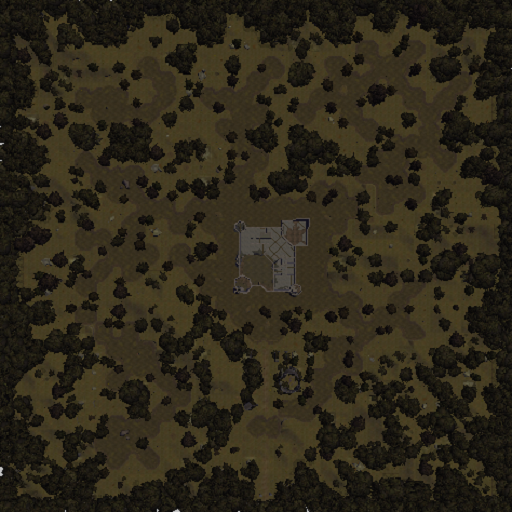
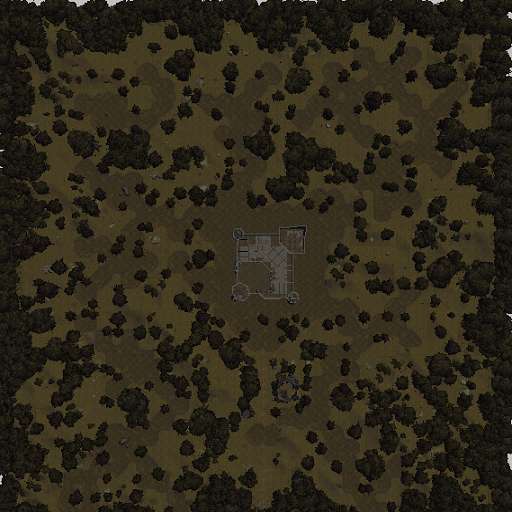
ver210127a

diff --git a/square/no-scroll.js b/square/no-scroll.js
@@ -1,16 +1,17 @@
 var map = {
-    cols: 10,
-    rows: 6,
+    cols: 14,
+    rows: 7,
     tsize: 512,
     csize: 100,
     tiles: [
-        //1         2                  3                  4                  5                  6                 7                  8                 9                  10
-        '0map',     '0map',            '0map',            '0map',            '0map',            '0map',           '0map',            '0map',           '0map',            '0map',
-        '0map',     'CastleTethyr',    '0map',            '0map',            '0map',            '0map',           '0map',            '0map',           '0map',            '0map',
-        '0map',     '0map',            '0map',            '0map',            '0map',            '0map',           '0map',            '0map',           '0map',            '0map',
-        'Saharkhan','Barshyr_IthalRd1','Barshyr_IthalRd2','Barshyr_IthalRd3','Barshyr_IthalRd4','Ithmon_WCatFrm1','Ithmon_WCatFrm2', 'Ithmon_LorCrsRd','Ithmon_IthRd1',   'Ithmon_IthRd2',
-        '0map',     '0map',            '0map',            '0map',            '0map',            '0map',           'Ithmon_LorFarmNW','Ithmon_LorFarmN','Ithmon_LorFarmNE','0map',
-        '0map',     '0map',            '0map',            '0map',            '0map',            '0map',           'Ithmon_LorFarmW', 'Loranse',        'Ithmon_LorFarmE', '0map'
+        //1         2                  3                  4                  5                  6                 7                  8                 9                  10              11     12     13         14
+        '0map',     '0map',            '0map',            '0map',            '0map',            '0map',           '0map',            '0map',           '0map',            '0map',         '0map','0map','0map',    '0map',
+        '0map',     'CastleTethyr',    '0map',            '0map',            '0map',            '0map',           '0map',            '0map',           '0map',            '0map',         '0map','0map','0map',    '0map',
+        '0map',     'CastleTethyrS',   '0map',            '0map',            '0map',            '0map',           '0map',            '0map',           '0map',            '0map',         '0map','0map','0map',    '0map',
+        'Saharkhan','Barshyr_IthalRd1','Barshyr_IthalRd2','Barshyr_IthalRd3','Barshyr_IthalRd4','Ithmon_WCatFrm1','Ithmon_WCatFrm2', 'Ithmon_LorCrsRd','Ithmon_IthRd1',   'Ithmon_IthRd2','0map','0map','0map',    '0map',
+        '0map',     '0map',            '0map',            '0map',            '0map',            '0map',           'Ithmon_LorFarmNW','Ithmon_LorFarmN','Ithmon_LorFarmNE','0map',         '0map','0map','0map',    '0map',
+        '0map',     '0map',            '0map',            '0map',            '0map',            '0map',           'Ithmon_LorFarmW', 'Loranse',        'Ithmon_LorFarmE', '0map',         '0map','0map','Darromar','0map',
+        '0map',     '0map',            '0map',            '0map',            '0map',            '0map',           '0map',            '0map',           '0map',            '0map',         '0map','0map','0map',    '0map'
     ],
     getTile: function (col, row) {
         return this.tiles[row * map.cols + col];

diff --git a/square/scroll.js b/square/scroll.js
@@ -7,7 +7,7 @@ var map = {
         //1         2                  3                  4                  5                  6                 7                  8                 9                  10              11     12     13         14
         '0map',     '0map',            '0map',            '0map',            '0map',            '0map',           '0map',            '0map',           '0map',            '0map',         '0map','0map','0map',    '0map',
         '0map',     'CastleTethyr',    '0map',            '0map',            '0map',            '0map',           '0map',            '0map',           '0map',            '0map',         '0map','0map','0map',    '0map',
-        '0map',     '0map',            '0map',            '0map',            '0map',            '0map',           '0map',            '0map',           '0map',            '0map',         '0map','0map','0map',    '0map',
+        '0map',     'CastleTethyrS',   '0map',            '0map',            '0map',            '0map',           '0map',            '0map',           '0map',            '0map',         '0map','0map','0map',    '0map',
         'Saharkhan','Barshyr_IthalRd1','Barshyr_IthalRd2','Barshyr_IthalRd3','Barshyr_IthalRd4','Ithmon_WCatFrm1','Ithmon_WCatFrm2', 'Ithmon_LorCrsRd','Ithmon_IthRd1',   'Ithmon_IthRd2','0map','0map','0map',    '0map',
         '0map',     '0map',            '0map',            '0map',            '0map',            '0map',           'Ithmon_LorFarmNW','Ithmon_LorFarmN','Ithmon_LorFarmNE','0map',         '0map','0map','0map',    '0map',
         '0map',     '0map',            '0map',            '0map',            '0map',            '0map',           'Ithmon_LorFarmW', 'Loranse',        'Ithmon_LorFarmE', '0map',         '0map','0map','Darromar','0map',
